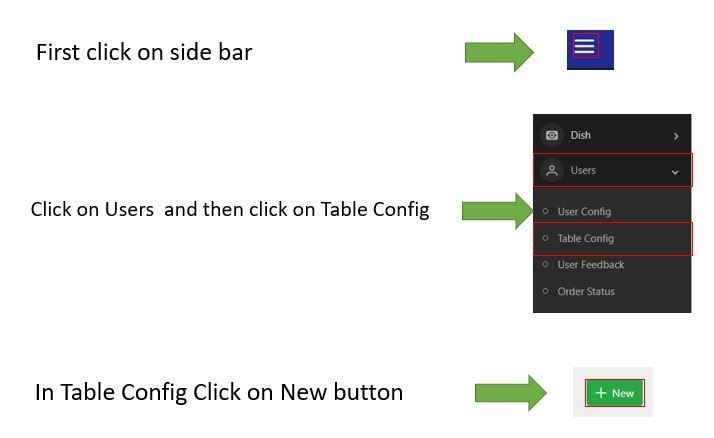
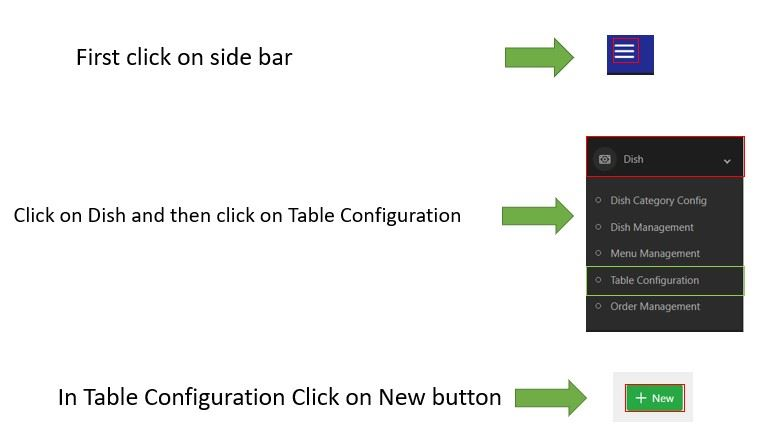
help and setting

diff --git a/src/app/views/help/help.component.html b/src/app/views/help/help.component.html
@@ -8,12 +8,13 @@
              <img src="assets/img/brand/DISH2.jpg" class="logo" width="800" alt="FY5 Company">
              <img src="assets/img/brand/DISH3.jpg" class="logo" width="800" alt="FY5 Company">
         </p-accordionTab>
-        <p-accordionTab header="B){{'Dish Configuration' | translate}}">
+        <p-accordionTab header="B){{'Dish Management' | translate}}">
             <img src="assets/img/brand/DISH4.jpg" class="logo" width="800" alt="FY5 Company">
             <img src="assets/img/brand/DISH5.jpg" class="logo" width="800" alt="FY5 Company">
             <img src="assets/img/brand/DISH6.jpg" class="logo" width="800" alt="FY5 Company">
         </p-accordionTab>
-        <p-accordionTab header="C) {{'Display Dish Menu' | translate}}">
+        <p-accordionTab header="C) {{'Display Menu Management' | translate}}">
+            <img src="assets/img/brand/DISH8.jpg" class="logo" width="800" alt="FY5 Company">
             <img src="assets/img/brand/DISH7.jpg" class="logo" width="800" alt="FY5 Company">
         </p-accordionTab>
     </p-accordionTab>
@@ -30,12 +31,12 @@
       
     </p-accordionTab>
     <p-accordionTab header="{{'How to register Customer in the system' | translate}}">
-        <p-accordionTab header="A){{'User Configuration' | translate}} ">
+        <p-accordionTab header="A){{'Customer Management' | translate}} ">
             <img src="assets/img/brand/User1.jpg" class="logo" width="800" alt="FY5 Company">
             <img src="assets/img/brand/User2.jpg" class="logo" width="800" alt="FY5 Company">
             <img src="assets/img/brand/User3.jpg" class="logo" width="800" alt="FY5 Company">
         </p-accordionTab>
-        <p-accordionTab header="B){{'User Feedback' | translate}}">
+        <p-accordionTab header="B){{'Customer Feedback' | translate}}">
             <img src="assets/img/brand/review1.jpg" class="logo" width="800" alt="FY5 Company">
             <img src="assets/img/brand/review2.jpg" class="logo" width="800" alt="FY5 Company">
         </p-accordionTab>   
@@ -43,19 +44,19 @@
     </p-accordionTab>
     <p-accordionTab header="{{'How to do a Customer Billing' | translate}} ">
         <p-accordionTab header="A){{'Dining' | translate}}  ">
-            <img src="assets/img/brand/diningbill1.jpg" class="logo" width="800" alt="FY5 Company">
+            <img src="assets/img/brand/DISH8.jpg" class="logo" width="800" alt="FY5 Company">
             <img src="assets/img/brand/diningbill2.jpg" class="logo" width="800" alt="FY5 Company">
             <img src="assets/img/brand/diningbill3.jpg" class="logo" width="800" alt="FY5 Company">
             <img src="assets/img/brand/diningbill4.jpg" class="logo" width="800" alt="FY5 Company">
             <img src="assets/img/brand/diningbill5.jpg" class="logo" width="800" alt="FY5 Company">
         </p-accordionTab>
         <p-accordionTab header="B){{'Take Away' | translate}} ">
-            <img src="assets/img/brand/diningbill1.jpg" class="logo" width="800" alt="FY5 Company">
+            <img src="assets/img/brand/DISH8.jpg" class="logo" width="800" alt="FY5 Company">
             <img src="assets/img/brand/diningbill2.jpg" class="logo" width="800" alt="FY5 Company">
             <img src="assets/img/brand/Takeaway3.jpg" class="logo" width="800" alt="FY5 Company">
         </p-accordionTab>
         <p-accordionTab header="C){{'Home Delivery' | translate}} ">
-            <img src="assets/img/brand/diningbill1.jpg" class="logo" width="800" alt="FY5 Company">
+            <img src="assets/img/brand/DISH8.jpg" class="logo" width="800" alt="FY5 Company">
             <img src="assets/img/brand/diningbill2.jpg" class="logo" width="800" alt="FY5 Company">
             <img src="assets/img/brand/Homedelivery.jpg" class="logo" width="800" alt="FY5 Company">
         </p-accordionTab>    
@@ -67,7 +68,7 @@
             <img src="assets/img/brand/Billingcategory2.jpg" class="logo" width="800" alt="FY5 Company">
             <img src="assets/img/brand/Billingcategory3.jpg" class="logo" width="800" alt="FY5 Company">
         </p-accordionTab>
-        <p-accordionTab header="B){{'Order List' | translate}}  ">
+        <p-accordionTab header="B){{'Order Management' | translate}}  ">
             <img src="assets/img/brand/order1.jpg" class="logo" width="800" alt="FY5 Company">
             <img src="assets/img/brand/order2.jpg" class="logo" width="800" alt="FY5 Company">
         </p-accordionTab>

diff --git a/src/app/views/setting/setting.component.html b/src/app/views/setting/setting.component.html
@@ -69,6 +69,37 @@
         </div>
       
     </p-accordionTab>
+    <p-accordionTab header="{{'Add To Cart' | translate}}">
+        <div class="grid">
+            <div class="col-6">
+                <span class="float left">
+                    <label >{{'Do you want customer data for billing?' | translate}}</label>
+                </span>
+            </div>
+            <div class="col-6 p-text-center">
+                <span class="float right">
+                    <label  for="want">{{'No' | translate}} </label>
+                    <p-inputSwitch  name="want" class="p-mx-2"></p-inputSwitch>
+                    <label  for="want">{{'Yes' | translate}}</label>
+                </span>
+            </div>
+        </div>
+        <div class="grid">
+            <div class="col-6">
+                <span class="float left">
+                    <label >{{' Do you want first payment to process bill closure?' | translate}}</label>
+                </span>
+            </div>
+            <div class="col-6 p-text-center">
+                <span class="float right">
+                    <label  for="want">{{'No' | translate}} </label>
+                    <p-inputSwitch name="want" class="p-mx-2"></p-inputSwitch>
+                    <label  for="want">{{'Yes' | translate}}</label>
+                </span>
+            </div>
+        </div>
+      
+    </p-accordionTab>
     <p-accordionTab header="{{'Invoice' | translate}}">
         <div class="grid">
             <div class="col-6">

diff --git a/src/app/common/sidebar/sidebar.component.ts b/src/app/common/sidebar/sidebar.component.ts
@@ -80,7 +80,7 @@ export class SidebarComponent implements OnInit {
             name:'Customer Management',
             routing:'/users',
             access:roleConfig.authRoles.admin,
-            title:'Customer Configuration'
+            title:'Customer Management'
           },
           // {
           //   name:'Table Config',
